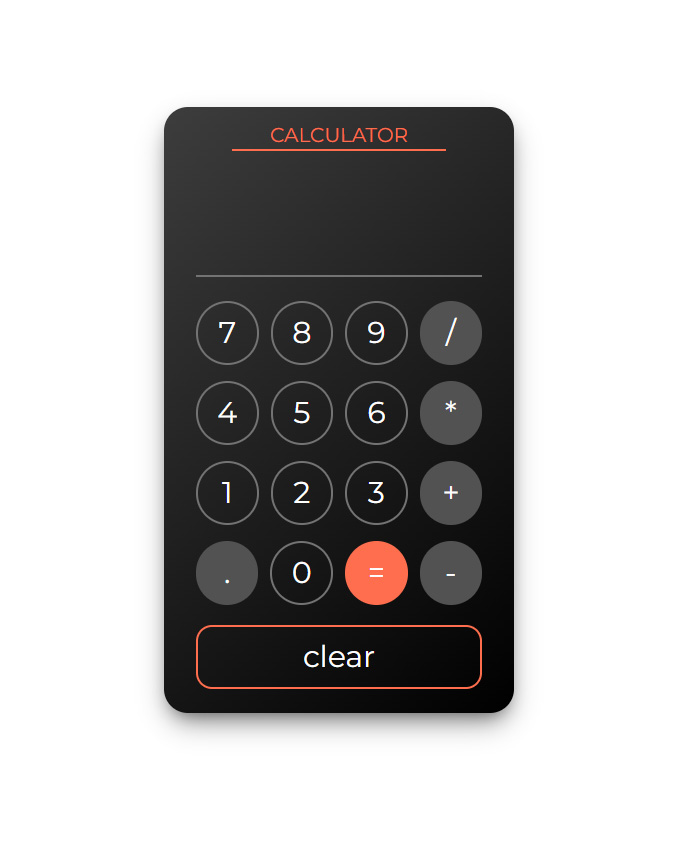
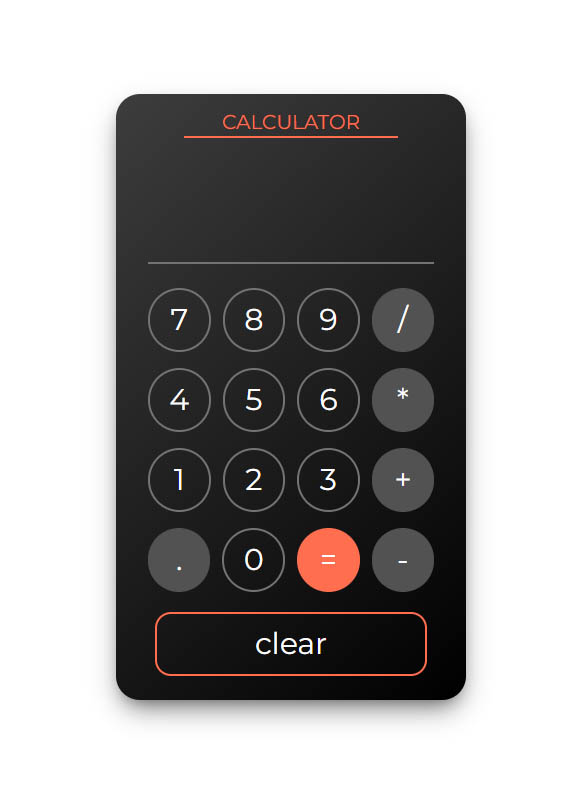
calculator

Changed region(s): [[0.1837, 0.0926, 0.8265, 0.8951]]

diff --git a/index.html b/index.html
@@ -125,8 +125,8 @@
         </div>
         <button
           id="clear"
-          style="border-color: #ff6e4e"
-          class="clearBtn border-2 mt-1 border-orange-500 hover:bg-neutral-500/20 active:bg-neutral-500/30 max-sm:hover:bg-transparent text-white text-3xl w-full p-3 rounded-2xl"
+          style="border-color: #ff6e4e; width: 95%"
+          class="clearBtn border-2 mt-1 border-orange-500 hover:bg-neutral-500/20 active:bg-neutral-500/30 max-sm:hover:bg-transparent text-white text-3xl p-3 rounded-2xl"
         >
           clear
         </button>

diff --git a/readme.md b/readme.md
@@ -21,6 +21,7 @@ For live demo of Calculator &#128073; [here](https://calculator-assignment6.netl
 
 ![Screenshot 1](screenshot-1.jpg)
 ![Screenshot 2](screenshot-2.jpg)
+![Screenshot 2](screenshot-3.jpg)
 
 ## Installation
 
